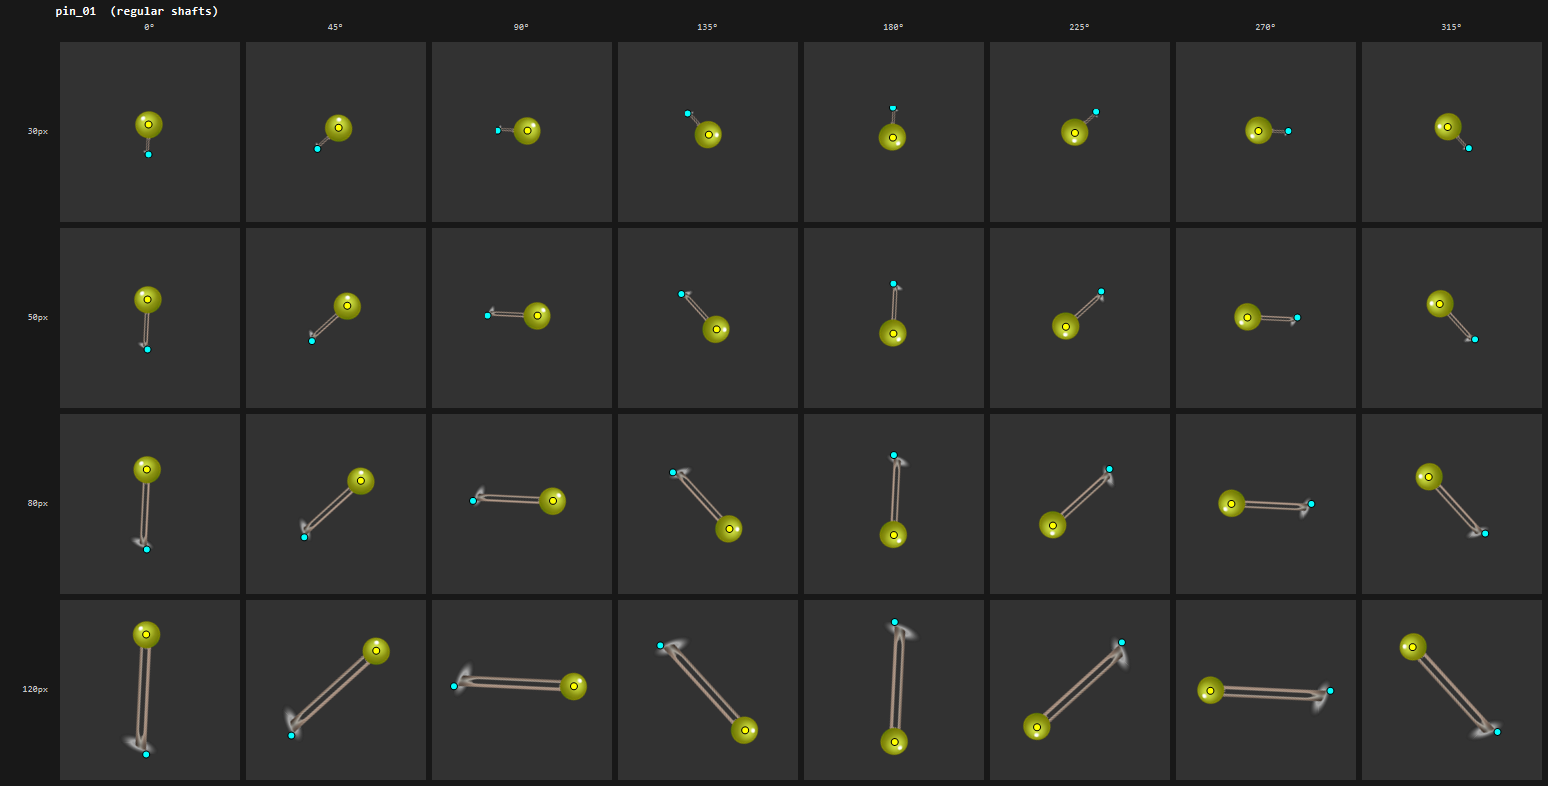
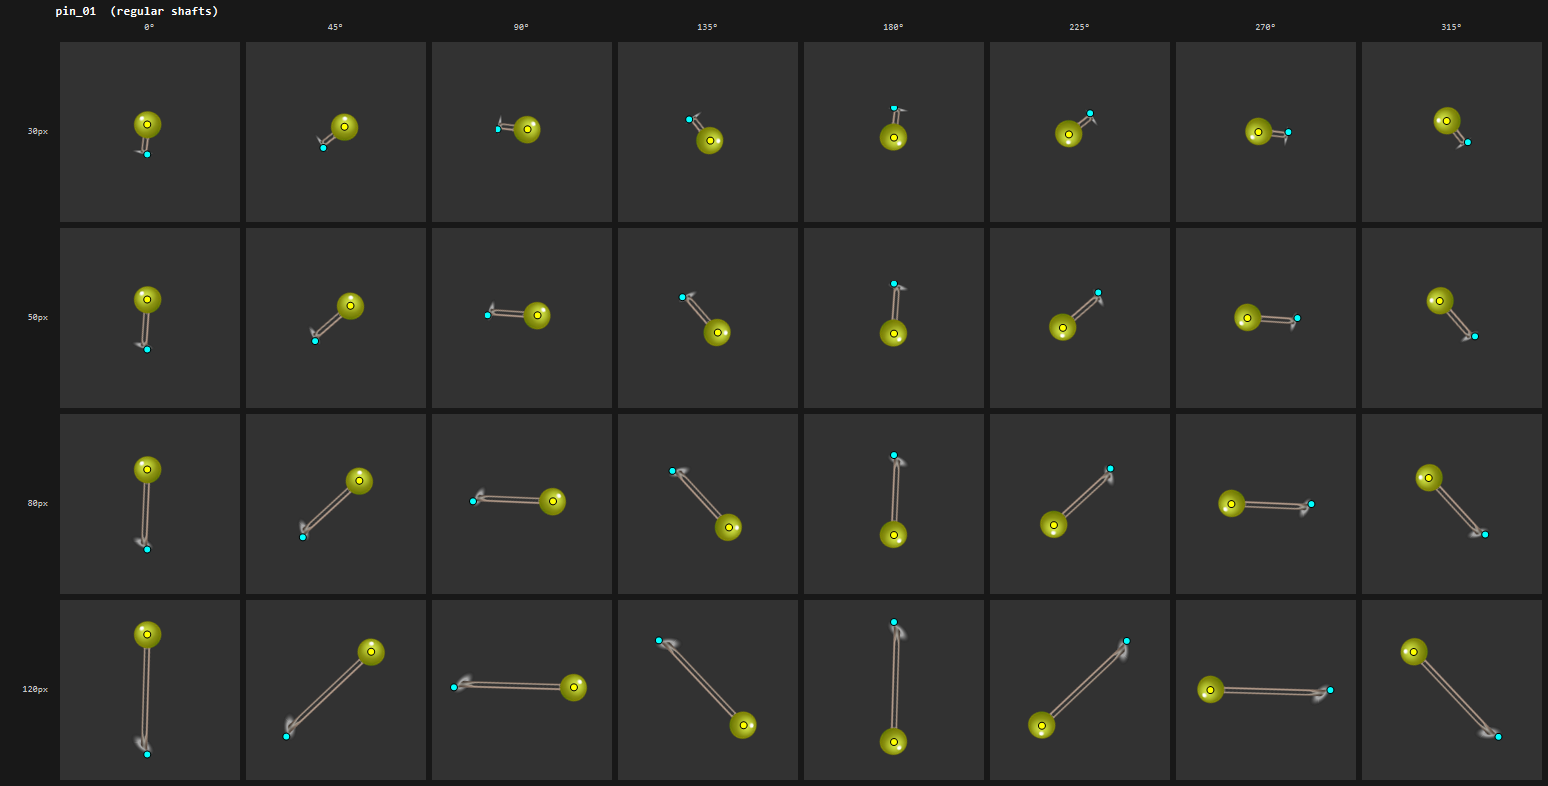
improved

diff --git a/Tools/PinDebugger/Program.cs b/Tools/PinDebugger/Program.cs
@@ -39,24 +39,29 @@ using System.Runtime.InteropServices;
 using System.Text;
 using System.Text.Json;
 
-bool cleanMode      = args.Any(a => a == "--clean");
-bool findJoinMode   = args.Any(a => a == "--find-join");
-bool fitAxisMode    = args.Any(a => a == "--fit-axis");
-bool compositesMode = args.Any(a => a == "--composites");
-bool useLitShafts   = args.Any(a => a == "--lit");
-var  posArgs        = args.Where(a => !a.StartsWith("--")).ToArray();
+bool cleanMode        = args.Any(a => a == "--clean");
+bool findJoinMode     = args.Any(a => a == "--find-join");
+bool fitAxisMode      = args.Any(a => a == "--fit-axis");
+bool measureShaftMode = args.Any(a => a == "--measure-shaft");
+bool compositesMode   = args.Any(a => a == "--composites");
+bool useLitShafts     = args.Any(a => a == "--lit");
+var  posArgs          = args.Where(a => !a.StartsWith("--")).ToArray();
 
 var partsDir   = posArgs.Length > 0 ? posArgs[0] : Path.Combine("Images&Content", "Pins_v2", "parts");
 var cleanedDir = Path.Combine("Tools", "PinDebugger", "cleaned"); // always checked for cleaned versions
 var outputDir  = posArgs.Length > 1 ? posArgs[1]
-    : cleanMode      ? cleanedDir
-    : findJoinMode   ? Path.Combine("Tools", "PinDebugger", "find-join")
-    : fitAxisMode    ? Path.Combine("Tools", "PinDebugger", "find-join")  // shares output dir
-    : compositesMode ? Path.Combine("Tools", "PinDebugger", "composites")
+    : cleanMode        ? cleanedDir
+    : findJoinMode     ? Path.Combine("Tools", "PinDebugger", "find-join")
+    : fitAxisMode      ? Path.Combine("Tools", "PinDebugger", "find-join")  // shares output dir
+    : measureShaftMode ? Path.Combine("Tools", "PinDebugger", "find-join")  // shares output dir
+    : compositesMode   ? Path.Combine("Tools", "PinDebugger", "composites")
     : Path.Combine("Tools", "PinDebugger", "output_v2");
 
 Directory.CreateDirectory(outputDir);
-Console.WriteLine($"Mode   : {(cleanMode ? "clean" : findJoinMode ? "find-join" : fitAxisMode ? "fit-axis" : compositesMode ? $"composites{(useLitShafts ? " --lit" : "")}" : "annotate")}");
+string modeName = cleanMode ? "clean" : findJoinMode ? "find-join" : fitAxisMode ? "fit-axis"
+                : measureShaftMode ? "measure-shaft"
+                : compositesMode ? $"composites{(useLitShafts ? " --lit" : "")}" : "annotate";
+Console.WriteLine($"Mode   : {modeName}");
 Console.WriteLine($"Parts  : {partsDir}");
 Console.WriteLine($"Output : {outputDir}");
 Console.WriteLine();
@@ -93,6 +98,10 @@ else
         else if (fitAxisMode)
         {
             FitAxis(pin, pinId, partsDir, cleanedDir);
+        }
+        else if (measureShaftMode)
+        {
+            MeasureShaft(pin, pinId, partsDir, cleanedDir);
         }
         else
         {
@@ -437,6 +446,72 @@ static void FitAxis(JsonElement pin, string pinId, string partsDir, string clean
     Console.WriteLine();
 }
 
+// ── Measure-shaft mode ────────────────────────────────────────────────────────
+
+/// <summary>
+/// Measures native shaft half-width: the 95th-percentile perpendicular distance
+/// from the axis to all opaque shaft pixels.  Uses cleaned image if available.
+/// Outputs a JSON patch line with native_shaft_half_width_px.
+/// </summary>
+static void MeasureShaft(JsonElement pin, string pinId, string partsDir, string cleanedDir)
+{
+    var baseFile = pin.GetProperty("shaft_file").GetString()!;
+    var shaft    = pin.GetProperty("shaft");
+    var tip      = ParsePoint(shaft.GetProperty("local_tip"));
+    var join     = ParsePoint(shaft.GetProperty("local_join"));
+
+    // Native axis unit and its left normal
+    float aDx = join.X - tip.X, aDy = join.Y - tip.Y;
+    float aLen = MathF.Sqrt(aDx * aDx + aDy * aDy);
+    if (aLen < 0.1f) { Console.WriteLine($"  {pinId}: degenerate axis"); return; }
+    aDx /= aLen; aDy /= aLen;
+    float nNx = -aDy, nNy = aDx;   // unit normal (left of axis)
+
+    var cleanedPath  = Path.Combine(cleanedDir, $"{pinId}_shaft_clean.png");
+    var originalPath = Path.Combine(partsDir, baseFile);
+    var srcPath      = File.Exists(cleanedPath) ? cleanedPath : originalPath;
+    var srcLabel     = File.Exists(cleanedPath) ? "cleaned" : "original";
+    if (!File.Exists(srcPath)) { Console.WriteLine($"  {pinId}: !! missing {srcPath}"); return; }
+
+    using var bmp    = new Bitmap(srcPath);
+    int w = bmp.Width, h = bmp.Height;
+    var rect    = new Rectangle(0, 0, w, h);
+    var bmpData = bmp.LockBits(rect, ImageLockMode.ReadOnly, PixelFormat.Format32bppArgb);
+    int stride  = bmpData.Stride;
+    var pixels  = new byte[stride * h];
+    Marshal.Copy(bmpData.Scan0, pixels, 0, pixels.Length);
+    bmp.UnlockBits(bmpData);
+
+    // Collect absolute perpendicular distances for all opaque pixels
+    var dists = new List<float>(w * h / 4);
+    for (int py = 0; py < h; py++)
+    for (int px = 0; px < w; px++)
+    {
+        if (pixels[py * stride + px * 4 + 3] < 10) continue;
+        float dx   = px - tip.X, dy = py - tip.Y;
+        float perp = MathF.Abs(dx * nNx + dy * nNy);
+        dists.Add(perp);
+    }
+
+    if (dists.Count == 0) { Console.WriteLine($"  {pinId}: no opaque pixels"); return; }
+
+    dists.Sort();
+    // 95th percentile: avoids stray antialiasing outliers
+    int p95idx   = (int)(dists.Count * 0.95);
+    float halfW  = dists[Math.Min(p95idx, dists.Count - 1)];
+
+    double curVal = shaft.TryGetProperty("native_shaft_half_width_px", out var cur)
+                    ? cur.GetDouble() : 0.0;
+    bool changed = Math.Abs(halfW - curVal) > 0.5;
+
+    Console.WriteLine($"  {pinId}  [{srcLabel}]  img={w}x{h}  pixels={dists.Count}");
+    Console.WriteLine($"    current  native_shaft_half_width_px : {curVal:F1}");
+    Console.WriteLine($"    measured (95th pct perp dist)       : {halfW:F1}{(changed ? "  ← CHANGED" : "")}");
+    if (changed)
+        Console.WriteLine($"    JSON patch: \"native_shaft_half_width_px\": {halfW:F1}");
+    Console.WriteLine();
+}
+
 // ── Annotate mode ─────────────────────────────────────────────────────────────
 
 static void AnnotateHead(JsonElement pin, string pinId, string partsDir, string outputDir)
@@ -589,7 +664,20 @@ static void RunComposites(JsonElement root, string partsDir, string outputDir, b
 {
     double[] targetLengths = { 30.0, 50.0, 80.0, 120.0 };
     double[] targetAngles  = { 0.0, 45.0, 90.0, 135.0, 180.0, 225.0, 270.0, 315.0 };
-    const double HeadRadiusPx = 14.0;
+
+    // Read from visual-config.json so this and production code share one value to change.
+    double HeadRadiusPx     = 14.0;
+    double ShaftHalfWidthPx = 0.0;
+    if (File.Exists("visual-config.json"))
+    {
+        using var vcDoc = JsonDocument.Parse(File.ReadAllText("visual-config.json"));
+        if (vcDoc.RootElement.TryGetProperty("PinParts", out var pp))
+        {
+            if (pp.TryGetProperty("TargetHeadRadiusPx",     out var hr)) HeadRadiusPx     = hr.GetDouble();
+            if (pp.TryGetProperty("TargetShaftHalfWidthPx", out var sw)) ShaftHalfWidthPx = sw.GetDouble();
+        }
+    }
+
     const int CellW = 180, CellH = 180, Gap = 6;
     const int MarginLeft = 54, MarginTop = 36;
     int cols   = targetAngles.Length;
@@ -670,7 +758,7 @@ static void RunComposites(JsonElement root, string partsDir, string outputDir, b
                 Bitmap? composite = null;
                 try
                 {
-                    composite = RenderComposite(pin, shaftImg, headImg, len, angle, HeadRadiusPx);
+                    composite = RenderComposite(pin, shaftImg, headImg, len, angle, HeadRadiusPx, ShaftHalfWidthPx);
 
                     float scaleToFit = Math.Min((CellW - 4f) / composite.Width,
                                                (CellH - 4f) / composite.Height);
@@ -702,23 +790,26 @@ static void RunComposites(JsonElement root, string partsDir, string outputDir, b
 /// Cyan dot = tip, yellow dot = join (shaft/head meeting point).
 /// </summary>
 static Bitmap RenderComposite(JsonElement pin, Bitmap shaftImg, Bitmap headImg,
-                               double targetLength, double targetAngleDeg, double headRadiusPx)
+                               double targetLength, double targetAngleDeg, double headRadiusPx,
+                               double shaftHalfWidthPx = 0.0)
 {
     var shaft = pin.GetProperty("shaft");
     var head  = pin.GetProperty("head");
     var seg   = shaft.GetProperty("segmentation");
 
-    var    tip          = ParsePoint(shaft.GetProperty("local_tip"));
-    var    join         = ParsePoint(shaft.GetProperty("local_join"));
-    double nativeLength = shaft.GetProperty("native_length").GetDouble();
-    double tipCapLen    = seg.GetProperty("tip_cap_length").GetDouble();
-    double headCapLen   = seg.GetProperty("head_cap_length").GetDouble();
-    double strStart     = seg.GetProperty("stretch_start_distance").GetDouble();
-    double strEnd       = seg.GetProperty("stretch_end_distance").GetDouble();
-    double stretchLen   = seg.GetProperty("stretchable_length").GetDouble();
-    var    headCenter   = ParsePoint(head.GetProperty("local_center"));
-    double headRadius   = head.GetProperty("local_radius").GetDouble();
-    double stubDirDeg   = head.GetProperty("stub_direction_deg").GetDouble();
+    var    tip           = ParsePoint(shaft.GetProperty("local_tip"));
+    var    join          = ParsePoint(shaft.GetProperty("local_join"));
+    double nativeLength  = shaft.GetProperty("native_length").GetDouble();
+    double nativeHalfW   = shaft.TryGetProperty("native_shaft_half_width_px", out var nhw)
+                           ? nhw.GetDouble() : 0.0;
+    double tipCapLen     = seg.GetProperty("tip_cap_length").GetDouble();
+    double headCapLen    = seg.GetProperty("head_cap_length").GetDouble();
+    double strStart      = seg.GetProperty("stretch_start_distance").GetDouble();
+    double strEnd        = seg.GetProperty("stretch_end_distance").GetDouble();
+    double stretchLen    = seg.GetProperty("stretchable_length").GetDouble();
+    var    headCenter    = ParsePoint(head.GetProperty("local_center"));
+    double headRadius    = head.GetProperty("local_radius").GetDouble();
+    double stubDirDeg    = head.GetProperty("stub_direction_deg").GetDouble();
 
     int shW = shaftImg.Width, shH = shaftImg.Height;
     int hdW = headImg.Width,  hdH = headImg.Height;
@@ -748,13 +839,17 @@ static Bitmap RenderComposite(JsonElement pin, Bitmap shaftImg, Bitmap headImg,
     double headScale   = headRadiusPx > 0 && headRadius > 0
                          ? headRadiusPx / headRadius : S;
 
+    // Fixed normal scale: constant cross-section width regardless of target length.
+    double normalScale = (shaftHalfWidthPx > 0.0 && nativeHalfW > 0.0)
+                         ? shaftHalfWidthPx / nativeHalfW : S;
+
     // Build transforms (target tip at origin; shifted after bounds calculation)
     var tipT     = CompLayerTransform(tip, nDx, nDy, nNx, nNy, tAx, tAy, tNx, tNy,
-                                      0, 0, S, S, 0.0);
+                                      0, 0, S, normalScale, 0.0);
     var bodyT    = CompLayerTransform(tip, nDx, nDy, nNx, nNy, tAx, tAy, tNx, tNy,
-                                      0, 0, bodyStretch, S, scaledTipC - strStart * bodyStretch);
+                                      0, 0, bodyStretch, normalScale, scaledTipC - strStart * bodyStretch);
     var headCapT = CompLayerTransform(tip, nDx, nDy, nNx, nNy, tAx, tAy, tNx, tNy,
-                                      0, 0, S, S, scaledTipC + bodyLen - strEnd * S);
+                                      0, 0, S, normalScale, scaledTipC + bodyLen - strEnd * S);
 
     double nativeCenterAngle = CompNorm360(stubDirDeg + 180.0);
     double headRotDeg        = CompNormSigned(targetAngleDeg - nativeCenterAngle);

diff --git a/Services/CompositePinRenderPlanBuilder.cs b/Services/CompositePinRenderPlanBuilder.cs
@@ -174,29 +174,32 @@ namespace InteractiveWorldMap.Services
             // Scaled cap lengths (screen pixels) — the same values computed in PrepareGeometry.
             var scaledTipCap = seg.TipCapLength * S;
 
+            // Normal scale: fixed cross-section width when TargetShaftHalfWidthPx is configured,
+            // otherwise proportional (= S) to preserve the native image aspect ratio on screen.
+            var nativeHalfWidth = v.Geometry.Shaft.NativeShaftHalfWidthPx;
+            var normalScale = (config.TargetShaftHalfWidthPx > 0.0 && nativeHalfWidth > 0.0)
+                ? config.TargetShaftHalfWidthPx / nativeHalfWidth
+                : S;
+
             // Local helper deduplicates the five shared axis/normal arguments.
-            // normalScale = S maps the source normal direction at the same scale as the axis,
-            // preserving the pin image aspect ratio on screen.
-            Matrix ShaftLayerTransform(double axialScale, double normalScale, double axialOffset) =>
+            Matrix ShaftLayerTransform(double axialScale, double normalSc, double axialOffset) =>
                 CreateLayerTransform(
                     geo.NativeTip, geo.NativeAxisUnit, geo.NativeNormal,
                     geo.TargetDirection, geo.TargetNormal,
-                    new Point(0, 0), axialScale, axialOffset, normalScale);
+                    new Point(0, 0), axialScale, axialOffset, normalSc);
 
-            // Tip cap: uniform scale S (no additional axial stretch).
-            var tipTransform = ShaftLayerTransform(S, S, 0.0);
+            // Tip cap: axial scale S, fixed normal scale.
+            var tipTransform = ShaftLayerTransform(S, normalScale, 0.0);
 
-            // Body: axial scale = bodyStretch (= targetBodyLength/StretchableLength, which equals S
-            // for a purely uniform scaling and differs from S only when additional stretch is needed).
-            // Normal scale = S (always; preserves cross-section width).
+            // Body: axial scale = bodyStretch; fixed normal scale preserves cross-section width.
             var bodyTransform = ShaftLayerTransform(
                 geo.BodyStretch,
-                S,
+                normalScale,
                 scaledTipCap - (seg.StretchStartDistance * geo.BodyStretch));
 
-            // Head cap: uniform scale S; placed so StretchEnd aligns with the body end.
+            // Head cap: axial scale S, fixed normal scale.
             var headCapTransform = ShaftLayerTransform(
-                S, S,
+                S, normalScale,
                 scaledTipCap + geo.TargetBodyLength - seg.StretchEndDistance * S);
 
             var nativeAttachToCenterAngle = Normalize360(v.HeadEntry.Head.StubDirectionDeg + 180.0);

diff --git a/Models/PinPartConfig.cs b/Models/PinPartConfig.cs
@@ -33,5 +33,13 @@ namespace InteractiveWorldMap.Models
         /// Set to 0 to fall back to proportional-shaft scaling.
         /// </summary>
         public double TargetHeadRadiusPx { get; set; } = 14.0;
+
+        /// <summary>
+        /// Target shaft half-width in screen pixels. Each shaft image is scaled in the
+        /// normal (cross-section) direction so its native_shaft_half_width_px maps to
+        /// exactly this many screen pixels, keeping shaft thickness constant regardless
+        /// of pin length. Set to 0 to fall back to proportional scaling (normalScale = S).
+        /// </summary>
+        public double TargetShaftHalfWidthPx { get; set; } = 0.0;
     }
 }

diff --git a/Models/PinPartGeometry.cs b/Models/PinPartGeometry.cs
@@ -76,6 +76,9 @@ namespace InteractiveWorldMap.Models
         [JsonProperty("native_length")]
         public double NativeLength { get; set; }
 
+        [JsonProperty("native_shaft_half_width_px")]
+        public double NativeShaftHalfWidthPx { get; set; }
+
         [JsonProperty("segmentation")]
         public PinPartShaftSegmentation? Segmentation { get; set; }
     }
